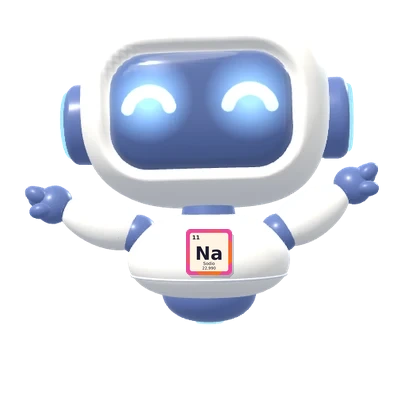
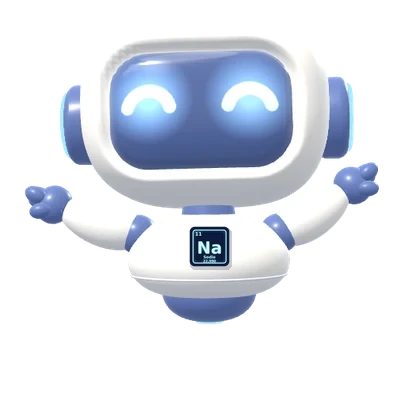
Molí: el cuadradito del Na ahora es estilo LED (panel azul noche con luz celeste), en el 3D y en todas las imágenes
Claude-Session: https://claude.ai/code/session_01GLj1XaXL3zPjkcPgbeyeYx

Changed region(s): [[0.4333, 0.5262, 0.5571, 0.681]]

diff --git a/index.html b/index.html
@@ -175,10 +175,10 @@
   #musicBtn { position: fixed; top: 10px; right: 10px; background: rgba(15,23,42,.7); color: #fff; border: 1px solid rgba(255,255,255,.25); border-radius: 8px; padding: 6px 10px; font-size: 12px; z-index: 5; display: none; }
 </style>
 <link rel="preconnect" href="https://fonts.googleapis.com"><link href="https://fonts.googleapis.com/css2?family=Patrick+Hand&family=Comfortaa:wght@700&display=swap" rel="stylesheet">
-<link rel="stylesheet" href="hojas.css?v=202610152213">
+<link rel="stylesheet" href="hojas.css?v=202610152218">
 <script src="https://cdnjs.cloudflare.com/ajax/libs/three.js/r128/three.min.js"></script>
-<script src="moli3d.js?v=202610152213"></script><script src="datos.js?v=202610152213"></script><script src="docente.js?v=202610152213"></script>
-<script src="hojas.js?v=202610152213"></script><script src="hojas-docente.js?v=202610152213"></script><script src="diplomas.js?v=202610152213"></script><script src="fotocheck.js?v=202610152213"></script><script src="herramientas.js?v=202610152213"></script><script src="remoto.js?v=202610152213"></script><script src="escaner.js?v=202610152213"></script><script src="tarjetas.js?v=202610152213"></script>
+<script src="moli3d.js?v=202610152218"></script><script src="datos.js?v=202610152218"></script><script src="docente.js?v=202610152218"></script>
+<script src="hojas.js?v=202610152218"></script><script src="hojas-docente.js?v=202610152218"></script><script src="diplomas.js?v=202610152218"></script><script src="fotocheck.js?v=202610152218"></script><script src="herramientas.js?v=202610152218"></script><script src="remoto.js?v=202610152218"></script><script src="escaner.js?v=202610152218"></script><script src="tarjetas.js?v=202610152218"></script>
 <style id="splashCss">
   /* ---- pantalla de carga (como la de Molí 1): MOLÍ en letras grandes y Molí 3D trayendo el número 2 ---- */
   #splash { position: fixed; inset: 0; z-index: 200; display: flex; flex-direction: column; align-items: center; justify-content: center; overflow: hidden;
@@ -2491,7 +2491,7 @@ window.SPLASH.then(function arrancar() {                                        
 window.G = { renderer, P, update, doors, colliders, floors, camera, renderer, scene, toggle, nearestDoor, keys, joy, spinners, rockets, TOUR, STOPS, go, moli, MO };
 Object.assign(window.G, { moliIr, spotCerca, decir, callar, sheet, portrait });   // (lo usan el control remoto y sus animaciones)
 </script>
-<script src="revista.js?v=202610152213"></script><script src="corcho.js?v=202610152213"></script><script src="mando.js?v=202610152213"></script><script src="anuncio.js?v=202610152213"></script><script src="muro.js?v=202610152213"></script>
-<script src="archivos.js?v=202610152213"></script><script src="editor.js?v=202610152213"></script>
+<script src="revista.js?v=202610152218"></script><script src="corcho.js?v=202610152218"></script><script src="mando.js?v=202610152218"></script><script src="anuncio.js?v=202610152218"></script><script src="muro.js?v=202610152218"></script>
+<script src="archivos.js?v=202610152218"></script><script src="editor.js?v=202610152218"></script>
 </body>
 </html>

diff --git a/moli3d.js b/moli3d.js
@@ -173,14 +173,16 @@ function crearMoli(THREE, opt = {}) {
   [-1, 1].forEach(sx => part(new THREE.SphereGeometry(0.1, 24, 18), NAVY, body, [0.35 * sx, 0.655, 0.01]));
   // ---- en el pecho: el cuadradito del sodio, como en la tabla periódica (Na · 11 · 22,990) ----
   const rr = (g, x, y, w, h, r) => { if (g.roundRect) return g.roundRect(x, y, w, h, r); g.rect(x, y, w, h); };   // (navegadores antiguos: esquinas rectas)
-  const naTex = canvasTex(256, 256, (g, w, h) => {
-    const gr = g.createLinearGradient(0, 0, w, h); gr.addColorStop(0, '#ec4899'); gr.addColorStop(1, '#f97316');
-    g.fillStyle = gr; g.beginPath(); rr(g, 4, 4, w - 8, h - 8, 26); g.fill();
-    g.fillStyle = '#fff4e2'; g.beginPath(); rr(g, 26, 26, w - 52, h - 52, 14); g.fill();
-    g.fillStyle = '#1e1b2e'; g.textBaseline = 'alphabetic';
-    g.font = '700 30px Arial, sans-serif'; g.textAlign = 'left'; g.fillText('11', 42, 66);
-    g.font = '800 104px Arial, sans-serif'; g.textAlign = 'center'; g.fillText('Na', w / 2, 158);
-    g.font = '600 24px Arial, sans-serif'; g.fillText('Sodio', w / 2, 192); g.fillText('22,990', w / 2, 220); });
+  const naTex = canvasTex(256, 256, (g, w, h) => {                   // estilo LED: panel azul noche con luz celeste
+    g.fillStyle = '#0d1b3f'; g.beginPath(); rr(g, 6, 6, w - 12, h - 12, 30); g.fill();
+    const led = (fn, blur, col) => { g.save(); g.shadowColor = '#38bdf8'; g.shadowBlur = blur; g.fillStyle = col; g.strokeStyle = col; fn(); g.restore(); };
+    led(() => { g.lineWidth = 9; g.beginPath(); rr(g, 22, 22, w - 44, h - 44, 18); g.stroke(); }, 22, '#7dd3fc');
+    led(() => { g.lineWidth = 3; g.beginPath(); rr(g, 22, 22, w - 44, h - 44, 18); g.stroke(); }, 0, '#e0f7ff');
+    g.textBaseline = 'alphabetic';
+    led(() => { g.font = '700 30px Arial, sans-serif'; g.textAlign = 'left'; g.fillText('11', 44, 70); }, 12, '#a5f3fc');
+    led(() => { g.font = '800 106px Arial, sans-serif'; g.textAlign = 'center'; g.fillText('Na', w / 2, 160); }, 26, '#bae6fd');
+    led(() => { g.font = '800 106px Arial, sans-serif'; g.textAlign = 'center'; g.fillText('Na', w / 2, 160); }, 0, '#f0fbff');
+    led(() => { g.font = '600 24px Arial, sans-serif'; g.textAlign = 'center'; g.fillText('Sodio', w / 2, 194); g.fillText('22,990', w / 2, 222); }, 10, '#7dd3fc'); });
   { const S = 0.17, geo = new THREE.PlaneGeometry(S, S, 12, 12), q = geo.attributes.position, yc = 0.585;
     for (let i = 0; i < q.count; i++) { const x = q.getX(i), y = yc + q.getY(i), R = torsoR(y); q.setXYZ(i, x, y, Math.sqrt(Math.max(0, R * R - x * x)) + 0.004); }   // pegadito a la pancita
     geo.computeVertexNormals(); const na = new THREE.Mesh(geo, new THREE.MeshBasicMaterial({ map: naTex, transparent: true })); na.renderOrder = 2; body.add(na); }

diff --git a/biblioteca.html b/biblioteca.html
@@ -151,8 +151,8 @@
 <div id="mGlobo" role="dialog" aria-label="Molí te ayuda a buscar"></div>
 <div id="libro"></div>
 <script src="https://cdnjs.cloudflare.com/ajax/libs/three.js/r128/three.min.js"></script>
-<script src="moli3d.js?v=202610152213"></script>
-<script src="pdftrabajo.js?v=202610152213"></script>
+<script src="moli3d.js?v=202610152218"></script>
+<script src="pdftrabajo.js?v=202610152218"></script>
 <script>
 (function () {
 'use strict';
@@ -822,6 +822,6 @@ addEventListener('pointerup', e => { if (!MOLI || modo === 'intro' || $('#libro'
 Promise.race([listo, wait(2500)]).then(() => { aplicarTX(); try { renderer.compile(scene, camera); } catch (e) {} cargarTX(); cargarTrabajos(); requestAnimationFrame(frame); intro(); });
 })();
 </script>
-<script src="mando.js?v=202610152213"></script>
+<script src="mando.js?v=202610152218"></script>
 </body>
 </html>

diff --git a/repositorio.html b/repositorio.html
@@ -1389,6 +1389,6 @@ addEventListener('keydown', e => { if (e.key === 'Escape' && !$('#modal').hidden
   if ((ROLE.t || ROLE.r) && TAB !== 'bandeja' && TAB !== 'similitud') { try { const a = await staffTok(); if (a) { CACHE.pend = await query('pend', a, ['st']); setCount(CACHE.pend.length); CACHE.pend = null; } } catch (e) {} }
 })();
 </script>
-<script src="pdftrabajo.js?v=202610152213"></script><script src="archivos.js?v=202610152213"></script><script src="mando.js?v=202610152213"></script>
+<script src="pdftrabajo.js?v=202610152218"></script><script src="archivos.js?v=202610152218"></script><script src="mando.js?v=202610152218"></script>
 </body>
 </html>
